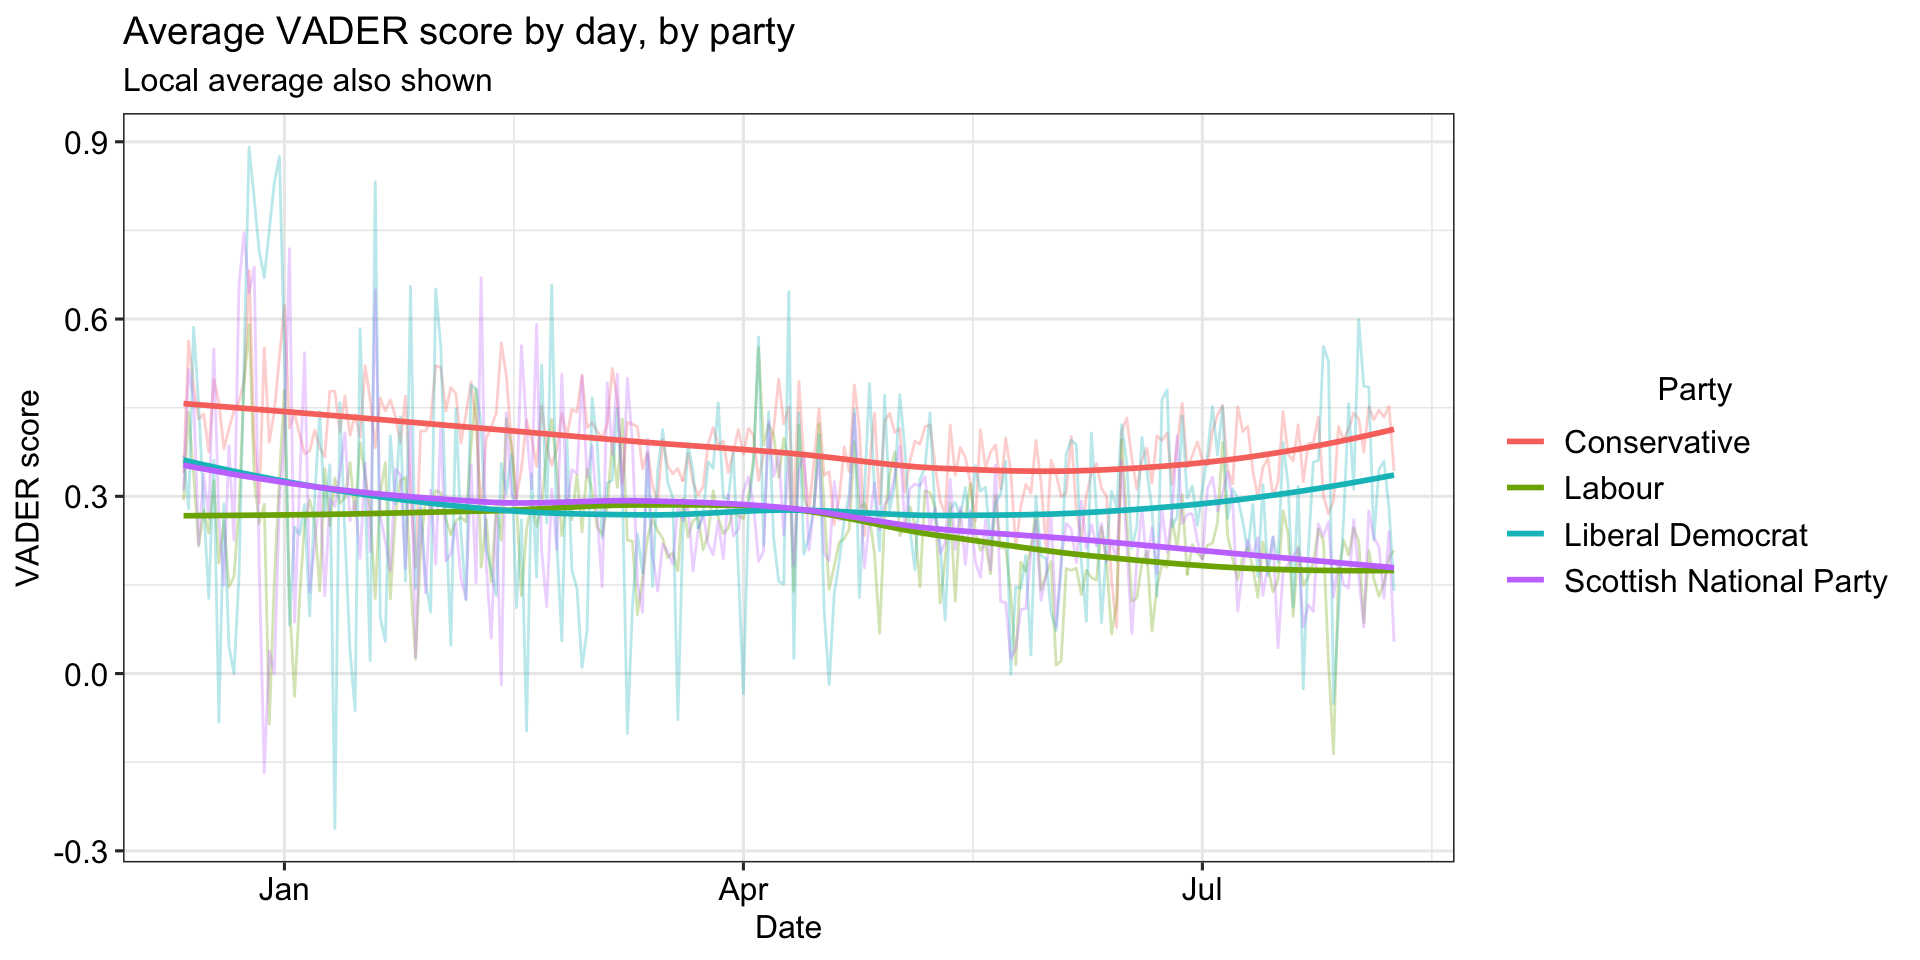
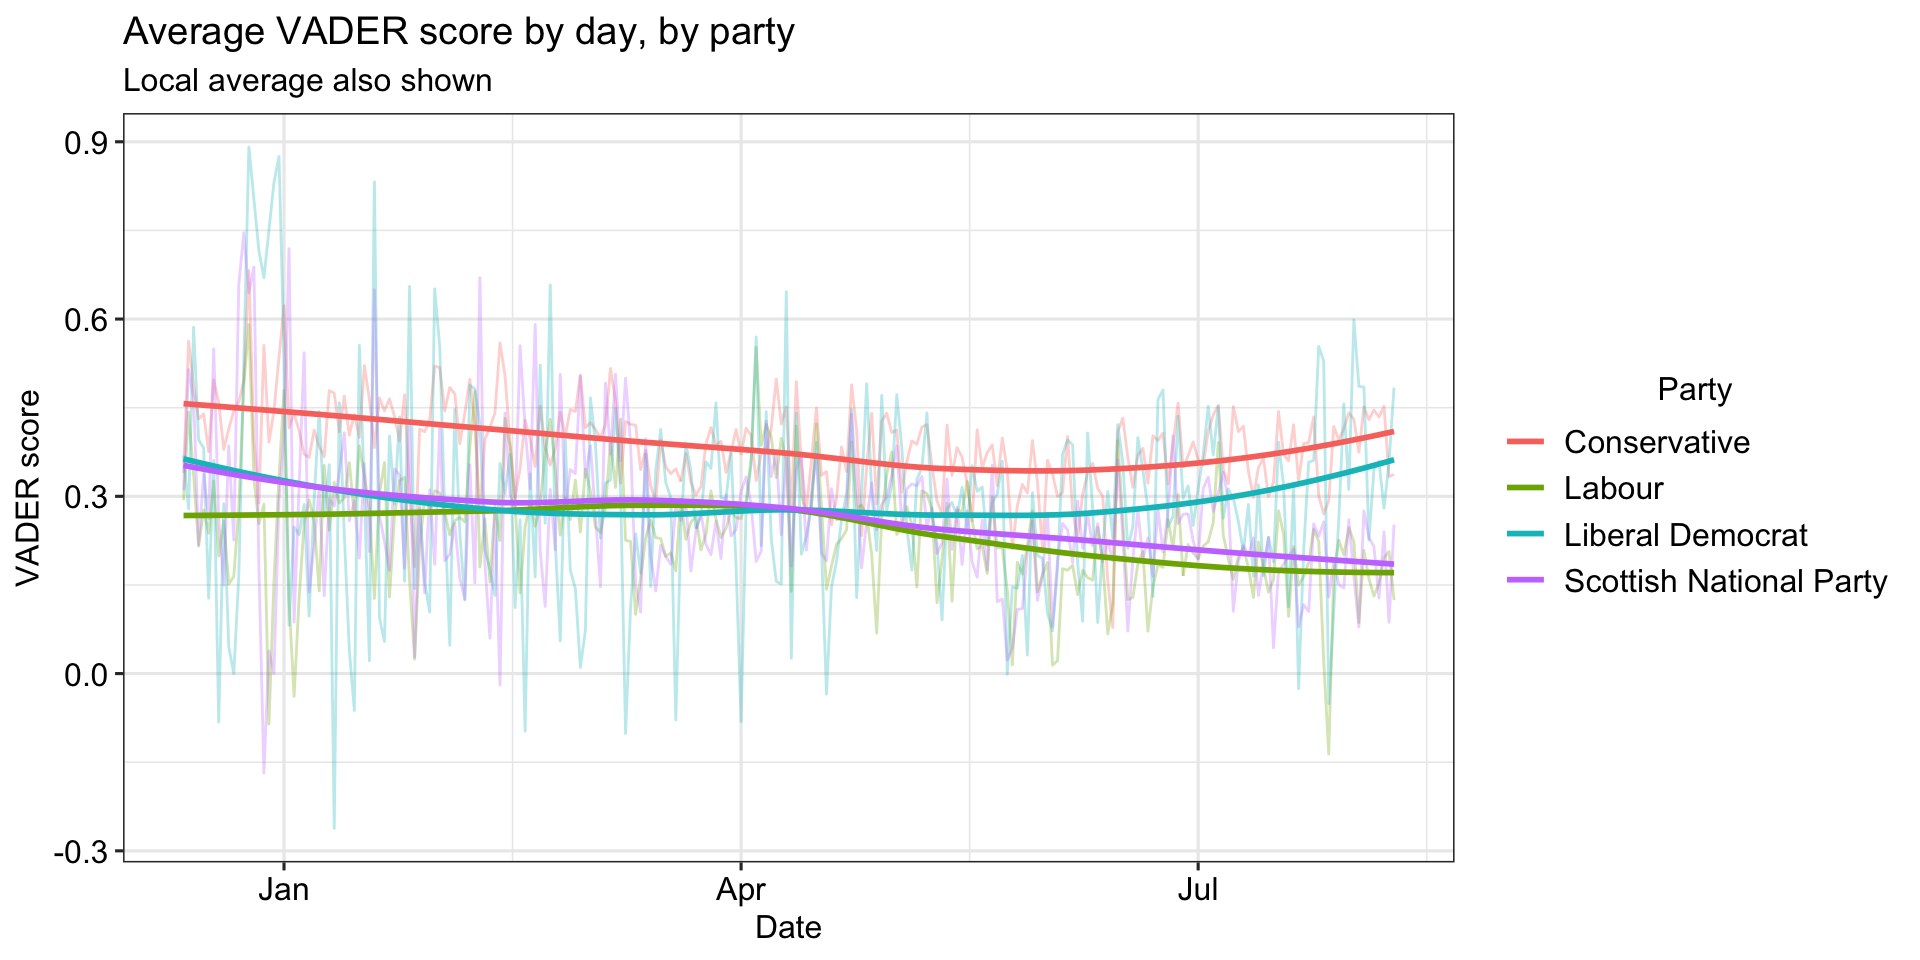
Fixed quotes

diff --git a/public/post/sentiment-analysis-mps/index.html b/public/post/sentiment-analysis-mps/index.html
@@ -88,7 +88,7 @@
 
 <h1 id="retrieving-twitter-data">Retrieving Twitter Data</h1>
 
-<p>R's <code>rtweet</code> package provides an easy way to pull tweets from the Twitter API, subject to limits on the number of requests. For example, <code>rtweet</code> only allows a maximum of 3,200 tweets to be grabbed from the timeline of each requested user. If you prefer the RStudio interface over the Twitter UI, this library also allows you to post your own tweets through the R Console.</p>
+<p>R's <code>rtweet</code> package provides an easy way to pull tweets from the Twitter API, subject to limits on the number of requests. For example, <code>rtweet</code> only allows a maximum of 3,200 tweets to be grabbed from the timeline of each requested user. If you prefer the RStudio interface over the Twitter UI, this library also allows you to post your own tweets through the R Console. The official <code>rtweet</code> <a href="https://docs.ropensci.org/rtweet/">documentation</a> tells you how to get set up with the Twitter API (you need your own Twitter account).</p>
 
 <p>This exercise requires the knowledge of the Twitter handles of every MP - I'm very thankful to the folks at <a href="https://www.mpsontwitter.co.uk/">MPs on Twitter</a> for providing a table of handles, of which I only had to update a few due to recent changes. Note that these handles were correct at the time of publication and are subject to change.</p>
 
@@ -129,7 +129,7 @@ tmls_new <span style="color:#f92672">&lt;-</span>
   <span style="color:#a6e22e">left_join</span>(handles, by <span style="color:#f92672">=</span> <span style="color:#a6e22e">c</span>(<span style="color:#e6db74">&#39;screen_name&#39;</span> <span style="color:#f92672">=</span> <span style="color:#e6db74">&#39;Handle_stripped&#39;</span>)) <span style="color:#f92672">%&gt;%</span>
   <span style="color:#a6e22e">select</span>(name, Party, Constituency, created_at, text)
 
-<span style="color:#a6e22e">glimpse</span>(tmls_new)</code></pre></div><pre><code>## Rows: 193,214
+<span style="color:#a6e22e">glimpse</span>(tmls_new)</code></pre></div><pre><code>## Rows: 193,383
 ## Columns: 5
 ## $ name         &lt;chr&gt; &#34;Aaron Bell MP&#34;, &#34;Aaron Bell MP&#34;, &#34;Aaron Bell MP&#34;, &#34;Aaro…
 ## $ Party        &lt;chr&gt; &#34;Conservative&#34;, &#34;Conservative&#34;, &#34;Conservative&#34;, &#34;Conserv…
@@ -148,16 +148,16 @@ tmls_new <span style="color:#f92672">&lt;-</span>
 words</code></pre></div><pre><code>## # A tibble: 10 x 2
 ##    word           n
 ##    &lt;chr&gt;      &lt;int&gt;
-##  1 support    16801
-##  2 people     15967
-##  3 government 13483
-##  4 local       9154
-##  5 time        9075
-##  6 uk          8412
-##  7 workers     6371
-##  8 day         6061
-##  9 nhs         6008
-## 10 news        5924</code></pre>
+##  1 support    16824
+##  2 people     15981
+##  3 government 13473
+##  4 local       9175
+##  5 time        9088
+##  6 uk          8420
+##  7 workers     6376
+##  8 day         6070
+##  9 nhs         6021
+## 10 news        5918</code></pre>
 <p>These top words aren't surprising and are consistent with what you'd expect from a parliamentary representative. Our main objective however, is to associate some measure of sentiment to a Tweet, so how exactly do we do this?</p>
 
 <h1 id="methodology">Methodology</h1>
@@ -191,11 +191,9 @@ words</code></pre></div><pre><code>## # A tibble: 10 x 2
 vader_scores <span style="color:#f92672">&lt;-</span>
   tmls_new <span style="color:#f92672">%&gt;%</span> 
   <span style="color:#a6e22e">mutate</span>(vader_scores <span style="color:#f92672">=</span> <span style="color:#a6e22e">as.numeric</span>(<span style="color:#a6e22e">sapply</span>(text, vader_compound )))</code></pre></div>
-<p>The most positive tweet from this sample was by the Tory MP for Keighley, <a href="https://twitter.com/_robbiemoore">Robbie Moore</a>, who said: &quot;Huge congrats to businesses that won their categories at Special to Joe Smith of for top prize of Winner of Winners! Awards are great success story for Ilkley brilliant means of showcasing our great businesses&quot;</p>
+<p>The most positive tweet from this sample was by the Tory MP for Keighley, <a href="https://twitter.com/_robbiemoore">Robbie Moore</a>, who said: <em>&quot;Huge congrats to businesses that won their categories at Special to Joe Smith of for top prize of Winner of Winners! Awards are great success story for Ilkley brilliant means of showcasing our great businesses&quot;</em></p>
 
-<p>The jointly most negative tweets were written by Labour MP <a href="https://twitter.com/ApsanaBegumMP">Apsana Begum</a> and Tory MP <a href="https://twitter.com/david_duguid">David Duguid</a>. Apsana Begum spoke of an example of racially charged violence in the 1970s: &quot;The original abuse is bad enough but then followed up by an elected councillor?There is a lot of stress and frustration on all sides within the political and social system but this kind of behaviour is not OK.No excuse for stress and frustration becoming hate and abuse.&quot;</p>
-
-<p>David Duguid spoke about abuse directed at a Scottish Tory colleague on Twitter: &quot;The original abuse is bad enough but then followed up by an elected councillor?There is a lot of stress and frustration on all sides within the political and social system but this kind of behaviour is not OK.No excuse for stress and frustration becoming hate and abuse.&quot;</p>
+<p>The most negative tweet was written by Tory MP <a href="https://twitter.com/david_duguid">David Duguid</a>, who said: <em>&quot;The original abuse is bad enough but then followed up by an elected councillor?There is a lot of stress and frustration on all sides within the political and social system but this kind of behaviour is not OK.No excuse for stress and frustration becoming hate and abuse.&quot;</em></p>
 
 <p>So who is the most positive MP on Twitter? To measure this, we filter out MPs that have written fewer than 30 tweets in the period studied and we take their mean VADER score.</p>
 <div class="highlight"><pre style="color:#f8f8f2;background-color:#272822;-moz-tab-size:4;-o-tab-size:4;tab-size:4"><code class="language-r" data-lang="r">vader_mps <span style="color:#f92672">&lt;-</span>
@@ -210,15 +208,15 @@ vader_mps</code></pre></div><pre><code>## # A tibble: 10 x 4
 ##    name                        Party        total_tweets mean_score
 ##    &lt;chr&gt;                       &lt;chr&gt;               &lt;int&gt;      &lt;dbl&gt;
 ##  1 David Rutley MP             Conservative           80      0.732
-##  2 Rehman Chishti              Conservative          304      0.715
+##  2 Rehman Chishti              Conservative          305      0.715
 ##  3 Kwasi Kwarteng MP           Conservative           43      0.707
 ##  4 Graham Stuart MP            Conservative          132      0.651
-##  5 Alan Mak MP 🇬🇧              Conservative          139      0.627
-##  6 Alberto Costa MP #StayAlert Conservative          425      0.621
-##  7 Nadhim Zahawi #StayAlert    Conservative           99      0.621
-##  8 Robin Walker                Conservative          217      0.617
-##  9 Amanda Solloway             Conservative          270      0.612
-## 10 Justin Tomlinson MP         Conservative          136      0.608</code></pre>
+##  5 Alan Mak MP 🇬🇧              Conservative          140      0.627
+##  6 Nadhim Zahawi #StayAlert    Conservative          100      0.624
+##  7 Alberto Costa MP #StayAlert Conservative          425      0.621
+##  8 Robin Walker                Conservative          216      0.615
+##  9 Amanda Solloway             Conservative          272      0.614
+## 10 Neil Hudson                 Conservative          194      0.609</code></pre>
 <p>The Tory MP for Macclesfield, <a href="https://twitter.com/DavidRutley">David Rutley</a>, is the winner. In fact, the Conservatives make up the entirety of the top 10.</p>
 
 <h1 id="how-do-the-parties-compare">How do the parties compare?</h1>
@@ -250,7 +248,7 @@ vader_mps</code></pre></div><pre><code>## # A tibble: 10 x 4
 
 <p>The above plot shows that MPs across all the main political parties are less positive on Twitter now compared to the end of last year. A pandemic will do that. The Conservatives were consistent in producing the most positive content since the election, though this suffered a marked drop in positivity over the course of this period as the pandemic hit. There has been a slight uptick in recent weeks however, likely a result of their attempt to restore confidence in the economy. The Labour party have consistently been the most negative, with a slight increase around the time of the leadership election, but has fallen back significantly in recent weeks, again likely as a result of their response to the government's questionable handling of the pandemic. The impact of a leadership election is also plain to see from the sharp increase in positive sentiment from the Liberal Democrats in recent weeks.</p>
 
-<h1 id="takeaways">Take-aways</h1>
+<h1 id="takeaways">Takeaways</h1>
 
 <p>VADER is a simple concept but clearly has involved countless hours of research into making a wonderfully powerful tool. This analysis has shown that indeed the Conservative party are a more optimistic bunch that their opponents, but when you're in government, that's your job, isn't it?</p>
 
